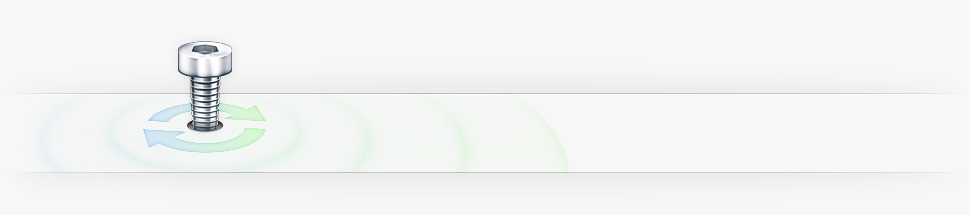
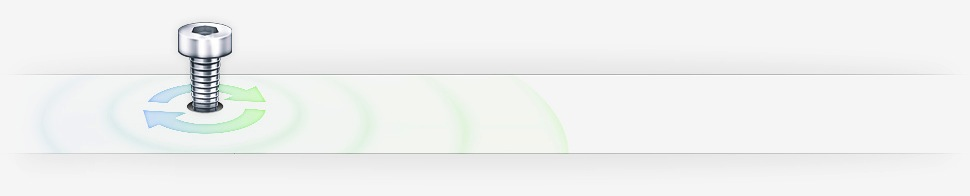
removed headline

Changed region(s): [[0.0309, 0.0918, 0.9588, 0.7347], [0.0309, 0.7653, 0.9588, 0.8265]]

diff --git a/index.htm b/index.htm
@@ -10,137 +10,129 @@
 <body id="index">
 <div id="wrapper">
 	<div id="header">
-		<h1><strong>MACGUIDE</strong> Change your default Settings!</h1>
+		<h1>change your defaults</h1>
 		<br class="clear" />
-		<span>Get in Contact to <a href="#">submit</a> new Commands or just say <a href="#">Hello</a>.<br />We love both and appreciate any kind of Feedback.</span><br class="clear" />
     </div>
-  
-  <div id="content">
-      <div class="sidebar">
-        <span class="button_versions">All Versions<em>&nbsp;</em></span>
-        
-        <ul>
-          <li>Stay connected and <a href="#">Bookmark</a> or <a href="#">Follow</a> Macguide on Twitter</li>
-          <li class="seperator">&nbsp;</li>
-          <li>Copy & Paste or Type the Command in your <a href="#">Terminal Application</a>*</li>
-          <li class="seperator">&nbsp;</li>
-          <li class="warning">*Be warned, every task that you type in your Terminal could harm your Mac!</li>
-          </ul>
-        </div>
-          <div id="container_content">
-            <section>
+    <div id="content">
+    	<div class="sidebar">
+    	<span class="button_versions">All Versions<em>&nbsp;</em></span>
+		<ul>
+			<li>Copy & Paste or Type the Command in your Terminal Application*</li>
+			<li class="seperator">&nbsp;</li>
+			<li class="warning">*Be warned, every task that you type in your Terminal could harm your Mac!</li>
+		</ul>
+	</div>
+	<div id="container_content">
+		<section>
+			<article>
+				<header>
+					<h2>Remove Source Code from the Spotlight results</h2>
+					<span class="lion">lion</span>
+				</header>
+				<div id="code_body">
+					<pre>defaults write com.apple.spotlight orderedItems -array-add '{ "enabled" = "0" ; "name" = "SOURCE"; }'</pre>
+				</div>
+			</article>
 		<article>
-			<header>
-				<h2>Remove Source Code from the Spotlight results</h2>
-				<span class="lion">lion</span>
-			</header>
-			<div id="code_body">
-				<pre>defaults write com.apple.spotlight orderedItems -array-add '{ "enabled" = "0" ; "name" = "SOURCE"; }'</pre>
-			</div>
+		<header>
+		<h2>Open screen sharing</h2>
+		<span class="leopard">leopard</span>
+		</header>
+		<div id="code_body">
+		<pre>open vnc://computername.local</pre>
+		</div>
 		</article>
 		<article>
-			<header>
-				<h2>Open screen sharing</h2>
-				<span class="leopard">leopard</span>
-			</header>
-			<div id="code_body">
-				<pre>open vnc://computername.local</pre>
-			</div>
+		<header>
+		<h2>Show hidden files</h2>
+		<span class="leopard">leopard</span>
+		</header>
+		<div id="code_body">
+		<pre>defaults write com.apple.finder AppleShowAllFiles true</pre>
+		</div>
 		</article>
 		<article>
-			<header>
-				<h2>Show hidden files</h2>
-				<span class="leopard">leopard</span>
-			</header>
-			<div id="code_body">
-				<pre>defaults write com.apple.finder AppleShowAllFiles true</pre>
-			</div>
+		<header>
+		<h2>2D Dock</h2>
+		<span class="lion">lion</span>
+		<span class="leopard">leopard</span>
+		</header>
+		<div id="code_body">
+		<pre>defaults write com.apple.dock no-glass -boolean YES <br>killall Dock</pre>
+		</div>
 		</article>
 		<article>
-			<header>
-				<h2>2D Dock</h2>
-				<span class="lion">lion</span>
-				<span class="leopard">leopard</span>
-			</header>
-			<div id="code_body">
-				<pre>defaults write com.apple.dock no-glass -boolean YES <br>killall Dock</pre>
-			</div>
+		<header>
+		<h2>Make hidden Applications Icons semi-transparent</h2>
+		<span class="lion">lion</span>
+		<span class="leopard">leopard</span>
+		</header>
+		<div id="code_body">
+		<pre>defaults write com.apple.Dock showhidden -bool YES <br>killall Dock</pre>
+		</div>
 		</article>
 		<article>
-			<header>
-				<h2>Make hidden Applications Icons semi-transparent</h2>
-				<span class="lion">lion</span>
-				<span class="leopard">leopard</span>
-			</header>
-			<div id="code_body">
-				<pre>defaults write com.apple.Dock showhidden -bool YES <br>killall Dock</pre>
-			</div>
+		<header>
+		<h2>Re-Index Spotlight</h2>
+		<span class="lion">lion</span>
+		<span class="leopard">leopard</span>
+		</header>
+		<div id="code_body">
+		<pre>sudo mdutil -E -p "/Volumes/Macintosh HD"</pre>
+		</div>
 		</article>
 		<article>
-			<header>
-				<h2>Re-Index Spotlight</h2>
-				<span class="lion">lion</span>
-				<span class="leopard">leopard</span>
-			</header>
-			<div id="code_body">
-				<pre>sudo mdutil -E -p "/Volumes/Macintosh HD"</pre>
-			</div>
+		<header>
+		<h2>Screencapture</h2>
+		<span class="lion">lion</span>
+		<span class="leopard">leopard</span>
+		</header>
+		<div id="code_body">
+		<p>Screenshot file format</p>
+		<pre>defaults write com.apple.screencapture type png</pre>
+		<p>Screenshot name</p>
+		<pre>defaults write com.apple.screencapture name ScreenShot</pre>
+		<p>Screenshot Location</p>
+		<pre>defaults write com.apple.screencapture location [path]</pre>
+		</div>
 		</article>
 		<article>
-			<header>
-				<h2>Screencapture</h2>
-				<span class="lion">lion</span>
-				<span class="leopard">leopard</span>
-			</header>
-			<div id="code_body">
-				<p>Screenshot file format</p>
-				<pre>defaults write com.apple.screencapture type png</pre>
-				<p>Screenshot name</p>
-				<pre>defaults write com.apple.screencapture name ScreenShot</pre>
-				<p>Screenshot Location</p>
-				<pre>defaults write com.apple.screencapture location [path]</pre>
-			</div>
+		<header>
+		<h2>Disable Time Machine warning</h2>
+		<span class="lion">lion</span>
+		<span class="leopard">leopard</span>
+		</header>
+		<div id="code_body">
+		<pre>defaults write com.apple.TimeMachine DoNotOfferNewDisksForBackup -bool YES</pre>
+		</div>
 		</article>
 		<article>
-			<header>
-				<h2>Disable Time Machine warning</h2>
-				<span class="lion">lion</span>
-				<span class="leopard">leopard</span>
-			</header>
-			<div id="code_body">
-				<pre>defaults write com.apple.TimeMachine DoNotOfferNewDisksForBackup -bool YES</pre>
-			</div>
+		<header>
+		<h2>Disable .ds-store on network shares</h2>
+		<span class="lion">lion</span>
+		<span class="leopard">leopard</span>
+		</header>
+		<div id="code_body">
+		<pre>defaults write com.apple.desktopservices DSDontWriteNetworkStores true</pre>
+		</div>
 		</article>
 		<article>
-			<header>
-				<h2>Disable .ds-store on network shares</h2>
-				<span class="lion">lion</span>
-				<span class="leopard">leopard</span>
-			</header>
-			<div id="code_body">
-				<pre>defaults write com.apple.desktopservices DSDontWriteNetworkStores true</pre>
-			</div>
+		<header>
+		<h2>Uninstalling Xcode Developer Tools</h2>
+		<span class="lion">lion</span>
+		<span class="leopard">leopard</span>
+		</header>
+		<div id="code_body">
+		<pre>sudo /Developer/Library/uninstall-devtools --mode=all</pre>
+		</div>
 		</article>
-		<article>
-			<header>
-				<h2>Uninstalling Xcode Developer Tools</h2>
-				<span class="lion">lion</span>
-				<span class="leopard">leopard</span>
-			</header>
-			<div id="code_body">
-				<pre>sudo /Developer/Library/uninstall-devtools --mode=all</pre>
-			</div>
-		</article>
-	</section>
-
-            </div>
-            <br class="clear" />
-    </div>
-    
-
+		</section>
+	</div>
+	<br class="clear" />
 </div>
-    
-  <div id="footer">
-    All Rights Reserved by <b>Macguide.org</b> ©2011 - 2012 • Subscribe to the <b>RSS Feed</b> • Design by <b>Falseone®</b></div>
+</div>
+
+<div id="footer">
+All Rights Reserved by <b>Macguide.org</b> ©2011 - 2012 • Subscribe to the <b>RSS Feed</b> • Design by <b>Falseone®</b></div>
 </body>
 </html>

diff --git a/css/main.css b/css/main.css
@@ -21,7 +21,7 @@ body{
 #header{
     position: relative;
     width:100%;
-    height:210px;
+    height:196px;
     background:url(../img/header_bg.jpg) no-repeat top center;
 }
 
@@ -61,7 +61,7 @@ body{
 /**
     === Content Lists Settings ===
 */
-.sidebar ul{list-style: none;display:block;background: url(../img/aside.jpg) no-repeat top right;margin:40px auto 0 auto;padding:0;min-height:500px;text-shadow: 0 1px 0 white;}
+.sidebar ul{list-style: none;display:block;background: url(../img/aside.jpg) no-repeat top right;margin:0 auto 0 auto;padding:0;min-height:500px;text-shadow: 0 1px 0 white;}
 .sidebar li{width:180px;margin:0 auto;padding:35px 0;}
 li.seperator{height:2px;background: url(../img/gui.png) no-repeat 0px -136px;width:100%;margin:0;padding:0;}
 /**
@@ -69,7 +69,7 @@ li.seperator{height:2px;background: url(../img/gui.png) no-repeat 0px -136px;wid
 */
 
 h1{font-size:28px;font-weight:300;text-align:center;}
-  #header h1{display:block;width:715px;float:right;line-height:30px;margin-top:45px;color:#a6a6a6;text-shadow: 0 2px 0px white;}
+  #header h1{display:block;width:715px;float:right;line-height:30px;margin-top:100px;color:#a6a6a6;text-shadow: 0 2px 0px white;padding-right: 80px; text-align: right;}
   #header h1 strong{color:black;}
 h2{font-size:18px;font-weight:bold;text-align:left;display:inline-block;background: url(../img/gui.png) no-repeat -192px 10px;margin-left:15px;padding-left:28px;text-shadow: 0 1px 0 white;}
   
@@ -78,7 +78,7 @@ h2{font-size:18px;font-weight:bold;text-align:left;display:inline-block;backgrou
 .warning{font-size:13px;line-height:20px !important;color:#a6a6a6;}
 .sidebar ul{color:#808080;line-height:25px;font-size:16px;}
 
-.button_versions{font-weight:bold;font-size:16px;color:#4c4c4c;text-shadow: 0 2px 0 white;line-height:37px;margin-top:5px;}
+.button_versions{ display:none; font-weight:bold;font-size:16px;color:#4c4c4c;text-shadow: 0 2px 0 white;line-height:37px;margin-top:5px;}
 .button_versions em{background: url(../img/gui.png) no-repeat -241px -165px;height:16px;width:16px;display:inline-block;margin-left:5px;margin-bottom:-3px;}
 
 #footer{color:#4c4c4c;text-shadow: 0 1px 0 white;font-size:13px;}
